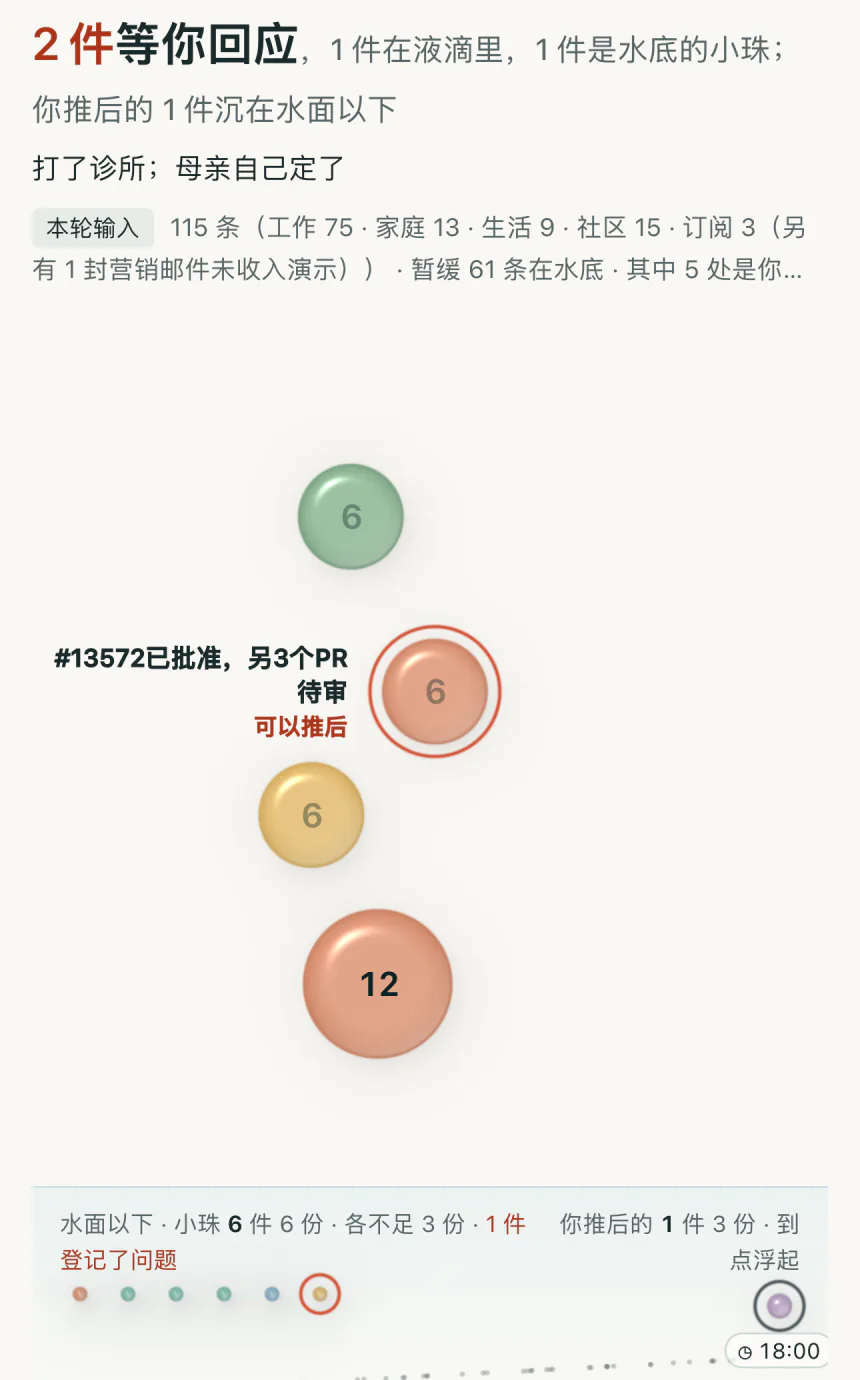
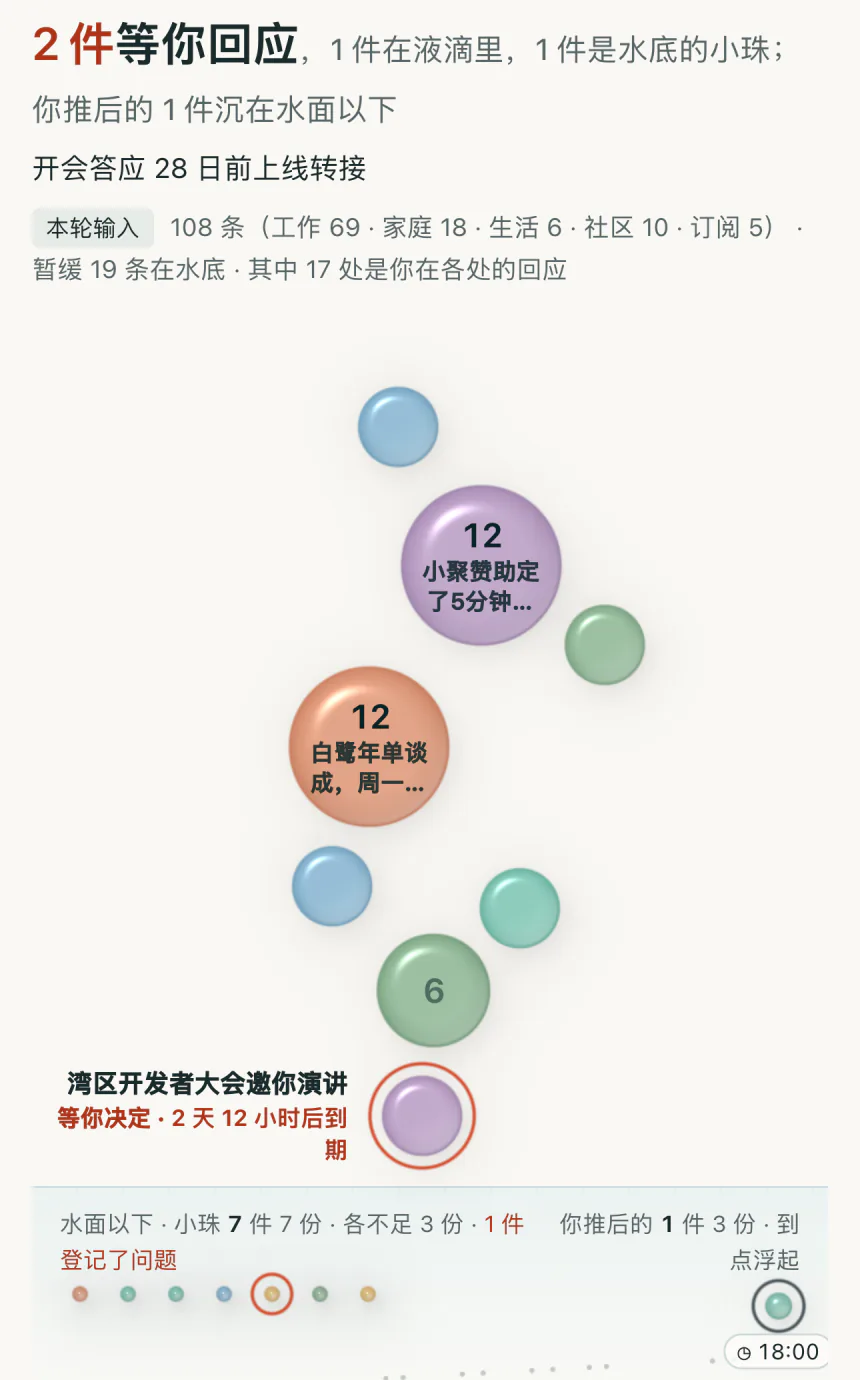
why 截图：合入回执句的修正后按 founder f22 重拍九张原型截图
开头那张卡下写“22:42 你在飞书上回复了郑婉；这个问题还开着”（13e9481 之后），
表盘、桌前、期限、推后、复盘两张与试一下都停在 9 月 18 日零点（推后那张 f23）。
复盘走势那张底部空白裁掉 18 px（CSS），--a 与 <img> 宽高随之更新；
正文里“绿占了大半”改为“是最大的一块”（此刻 24 份），推后那张的替代文字写明 2 件等你回应。

diff --git a/docs/why.md b/docs/why.md
@@ -26,7 +26,7 @@ pageClass: fold-why
 </div>
 
 <figure class="fw-fig is-cover" style="--max: 360px">
-<a class="fw-shot" href="../prototype/index.html?variant=d&amp;frame=22" target="_self" data-vp-ignore><img src="assets/why/phone-f22.webp" width="640" height="684" loading="lazy" decoding="async" alt="原型的手机首页，9 月 18 日零点：大字写 7 件等你回应，下面一行说上次看过之后收到 169 条；第一张卡问明早见客户，国庆前能不能答应把 AI 接不了的电话转到店里手机，三个按钮。"></a>
+<a class="fw-shot" href="../prototype/index.html?variant=d&amp;frame=22" target="_self" data-vp-ignore><img src="assets/why/phone-f22.webp" width="640" height="685" loading="lazy" decoding="async" alt="原型的手机首页，9 月 18 日零点：大字写 7 件等你回应，下面一行说上次看过之后收到 169 条；第一张卡问明早见客户，国庆前能不能答应把 AI 接不了的电话转到店里手机；卡下一行写着 22:42 你在飞书上回复了郑婉，这个问题还开着；再下面是三个按钮。"></a>
 <figcaption>9 月 18 日零点。陆晨忙了一下午加一晚上，这半天进来 169 条。他掏出手机，第一屏只说：7 件等你回应，排在最前的是明早十点见客户。</figcaption>
 </figure>
 
@@ -360,7 +360,7 @@ Fold 的第二个判断：同一刻的头版，按此刻的带宽重新编排。
 <figcaption>零点：期限画在此刻之后。女儿的回执 8 小时后到期，最近。</figcaption>
 </figure>
 <figure class="fw-fig" style="--a: 0.6232">
-<a class="fw-shot" href="../prototype/index.html?variant=c&amp;frame=22" target="_self" data-vp-ignore><img src="assets/why/defer-f23.webp" width="860" height="1380" loading="lazy" decoding="async" alt="流动形态，9 月 18 日中午：几件等你回应，你推后的 1 件沉在水面以下。上面几滴大小不同的水珠，客户那一滴缩成 12；底部水面以下一排小珠，右下角一颗推后的珠子标着 18:00，到点浮起。"></a>
+<a class="fw-shot" href="../prototype/index.html?variant=c&amp;frame=22" target="_self" data-vp-ignore><img src="assets/why/defer-f23.webp" width="860" height="1380" loading="lazy" decoding="async" alt="流动形态，9 月 18 日中午：2 件等你回应，你推后的 1 件沉在水面以下。上面几滴大小不同的水珠，客户那一滴缩成 12；底部水面以下一排小珠，右下角一颗推后的珠子标着 18:00，到点浮起。"></a>
 <figcaption>中午：推后的那件沉在水下，标着 18:00；客户的会开完了，那一滴缩小了一半。</figcaption>
 </figure>
 </div>
@@ -381,17 +381,17 @@ Fold 的第二个判断：同一刻的头版，按此刻的带宽重新编排。
 
 复盘不收作答，只回答一件事：这两周是怎么过的。
 
-每半天一张小方阵，按日排开。哪件事什么时候变大、什么时候消失，一眼就看得出：9 月 17、18 日，故障与年单（绿）占了大半；18 日中午会开完，它缩小一半；到了周末，开源库的新版本（黄）升到最上面。
+每半天一张小方阵，按日排开。哪件事什么时候变大、什么时候消失，一眼就看得出：9 月 17、18 日，故障与年单（绿）是最大的一块；18 日中午会开完，它缩小一半；到了周末，开源库的新版本（黄）升到最上面。
 
 旁边记着每件事的起落，也记着每个问题怎样关上：有的是他答了，有的换成了新问题，有的是事情变了，问题跟着撤下。
 
 <div class="fw-pair" style="--max: 660px">
 <figure class="fw-fig" style="--a: 0.5635">
-<a class="fw-shot" href="../prototype/forms/multiples.html?frame=22" target="_self" data-vp-ignore><img src="assets/why/review-week2-f22.webp" width="612" height="1086" loading="lazy" decoding="async" alt="两周小倍数的一段：9 月 17 日到 20 日，每天两张八乘八的小方阵。17、18 日绿色占了大半，18 日零点那一张被框出；18 日中午绿色缩小，19、20 日黄色升到最上面。"></a>
+<a class="fw-shot" href="../prototype/forms/multiples.html?frame=22" target="_self" data-vp-ignore><img src="assets/why/review-week2-f22.webp" width="612" height="1086" loading="lazy" decoding="async" alt="两周小倍数的一段：9 月 17 日到 20 日，每天两张八乘八的小方阵。17、18 日绿色是最大的一块，18 日零点那一张被框出；18 日中午绿色缩小，19、20 日黄色升到最上面。"></a>
 <figcaption>9 月 17 日到 20 日，每半天一张方阵；框出的是 18 日零点。</figcaption>
 </figure>
-<figure class="fw-fig" style="--a: 0.6061">
-<a class="fw-shot" href="../prototype/forms/multiples.html?frame=22" target="_self" data-vp-ignore><img src="assets/why/review-trend-f22.webp" width="700" height="1155" loading="lazy" decoding="async" alt="两周累计份额最多的八件事的走势线：九店上线、开发者聚会、故障与年单、开源发版等，右边是此刻的份额；下面列出此刻开着的 7 个问题里的 5 个，和 1 个刚换成新问题的。"></a>
+<figure class="fw-fig" style="--a: 0.6289">
+<a class="fw-shot" href="../prototype/forms/multiples.html?frame=22" target="_self" data-vp-ignore><img src="assets/why/review-trend-f22.webp" width="700" height="1113" loading="lazy" decoding="async" alt="两周累计份额最多的八件事的走势线：九店上线、开发者聚会、故障与年单、开源发版等，右边是此刻的份额；下面列出此刻开着的 7 个问题里的 5 个，和 1 个刚换成新问题的。"></a>
 <figcaption>两周分量最多的几件事怎样起落，和此刻开着、刚关上的问题。</figcaption>
 </figure>
 </div>
